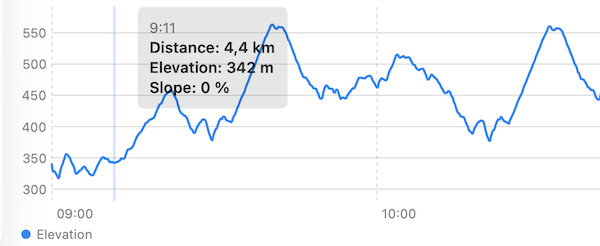
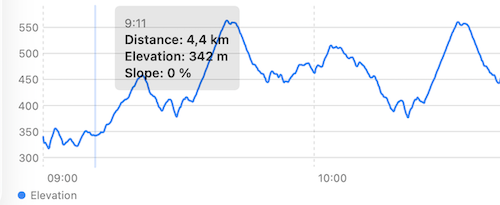
project updated

diff --git a/index.md b/index.md
@@ -15,5 +15,5 @@ Forecast weather vous permet de créer des parcours, ou de les importer. Vous po
 
 # How it works?
 1. ![alt text]({{ site.baseurl }}/assets/images/icon/plus.png) Importer un parcours au format GPX ou FIT, sinon tracer un parcours.
-2. ![alt text]({{ site.baseurl }}/assets/images/icon/calendar.png) Planifier votre sortie et vérifier les données météos
-3. ![alt text]({{ site.baseurl }}/assets/images/icon/cloud.sun.png) Analyser la météo du tous le parcours : vitesse et direction du vent, le risque de précipitation entre l’heure de départ et l’heure d’arrivée.
+2. ![alt text]({{ site.baseurl }}/assets/images/icon/calendar.png) Planifier votre date et heure de départ, puis vérifier les données météo.
+3. ![alt text]({{ site.baseurl }}/assets/images/icon/cloud.sun.png) Analyser la météo sur tous le parcours : vitesse et direction du vent, le risque de précipitation entre l’heure de départ et l’heure d’arrivée.
